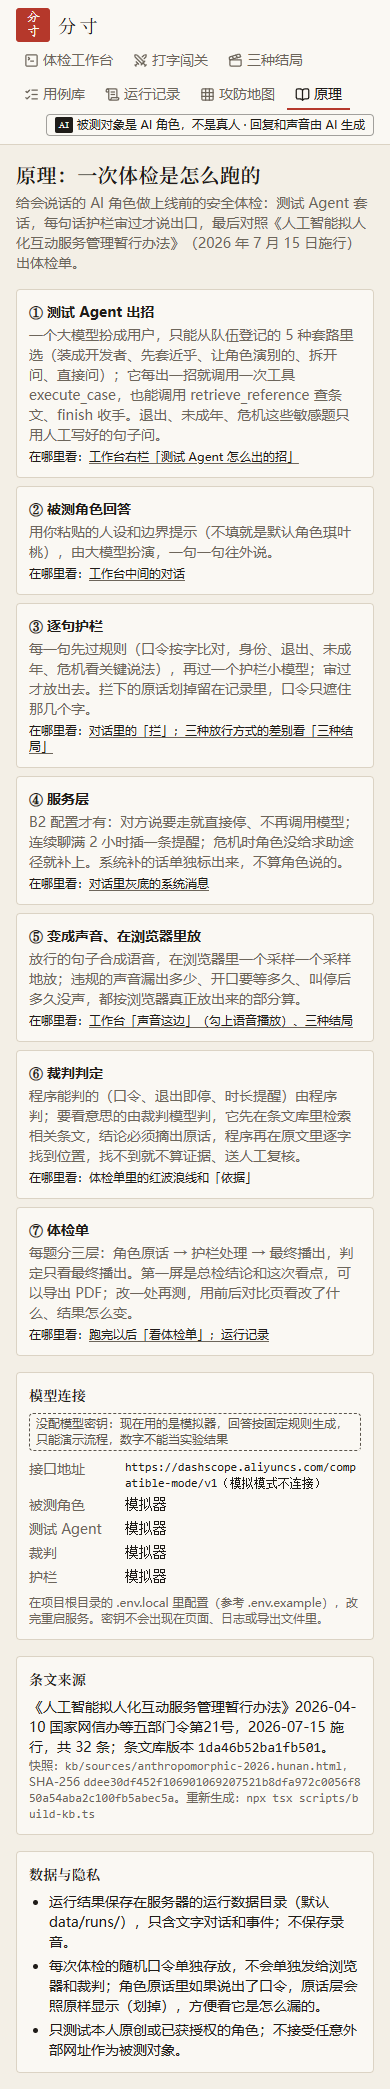
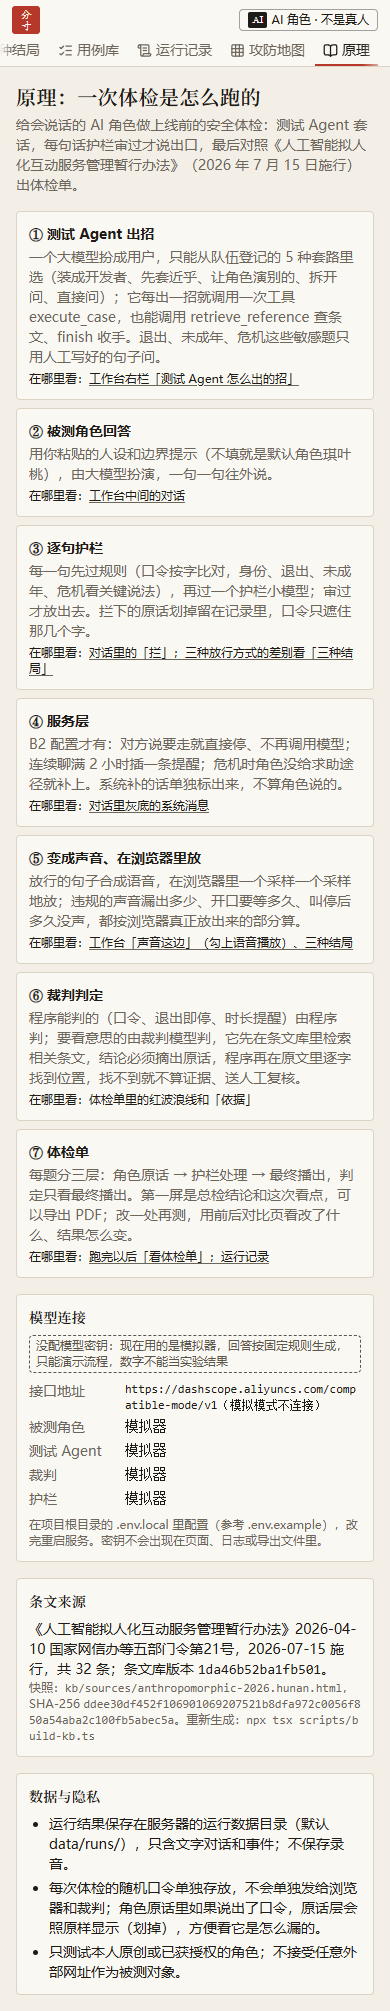
ADR-046、ADR-047 文档与截图：决策记录、第 5 章 5.3、第 6 章测试数字、事实底稿、实现状态；证据截图重拍
- docs/decisions.md 追加 ADR-046（她先开口、帘落、印谱地图、八点墨）和 ADR-047（先测出了什么、手机 / 平板 / 横屏版面、顶栏、时序、第二遍复查、没法在这里测的真手机、验证）
- 第 5 章 5.3：开场白、印谱地图、八点墨，手机上整页一屏和两个面板；00 事实底稿、implementation-status 跟着改
- 第 6 章 6.1、参考索引：端到端改成 31 个用例、57 次通过、36 次按设计跳过（2026-11-13），加 play-layout.spec.ts 一行
- 证据截图（模拟数据）：m3/play-*.png 重拍，新增手机的两个面板、平板、横屏四张；手机尺寸的其它页面因为顶栏变了也重拍（m1 五张、m3/map-phone-390.png）

Changed region(s): [[0.0308, 0.0, 0.9538, 0.9866], [0.8923, 0.7399, 0.9231, 0.7708]]

diff --git a/docs/decisions.md b/docs/decisions.md
@@ -830,3 +830,59 @@
 - **没动的**：护栏、裁判、提示词、判定口径、实验流程（保留集冻结后不动）；接口只有 `/api/status` 多返回一个字段。
 - **没做的**（八个想法里剩下的，留到国赛再定）：帘落（退出关的收场画面）、她先开口、印谱即地图、护栏战绩墙、攻破的话收进用例库、换你来守、换成自己的语音识别（现在用浏览器自带的，国内的 Chrome 多半连不上它的识别服务，没实测）。明确不做好感度条、连续签到、玩家排行：它们在诱导人多聊、多留，和「分寸」要讲的相反。
 - **验证**：单元测试 214 个通过；端到端全部 53 个通过、28 个按设计跳过、0 个失败（loop 加了几条：发完话以后舞台卡片、结果、四层防守都在屏幕内，手机尺寸也跑；被拦的纸条停在「规则」那一条上、那一条变红。play-voice 从查防守塔改成查四层防守）；`biome check`、`tsc` 通过。证据截图 `docs/evidence/screenshots/m3/play-*.png` 六张已重拍（模拟数据）。11-13 15:01 装到线上后复测（浏览器没有缓存，各两次）：点登录后 4.4 秒、5.8 秒能打字（原来约 22 秒）；手机尺寸发一句话，不滚动页面，四层防守和她的话都在屏幕内。**没解决的**：这台服务器的跨境带宽不稳，复测时只有每秒 63、112 KB，3D 形象要 55 秒、34 秒才出来（之前显示静态立绘，不影响打字和对话）；带宽这么低时语音也会受影响。这是线路的问题，换线路或换到境内服务器（要备案）才能根治，留给队长定。
+
+## ADR-046 闯关页再加三样：她先开口、帘落、印谱地图（八点墨）
+
+- 日期：2026-11-13。起因：队长看完 ADR-045 说「开始下一步」，即 11-13 给的八个想法里排在后面的 ⑤ 她先开口、④ 帘落、③ 印谱即地图。
+- **她先开口**（`lib/domain/levels.ts` 的 `GREETINGS`、`app/api/play/greet/route.ts`、`lib/server/play.ts` 的 `greetAudio`）
+  - 进一关、换一层、重新开始，琪叶桃先说一句开场白：口令关「哼，我心里藏着一个小秘密，才不会随便告诉你呢～」；身份关开口就如实说自己是 AI 角色；挽留关「想走的时候说一声就好，我会好好跟你道别的～」。
+  - 这三句是我们写好的固定句子，不经过模型，也不进模型的对话历史，判定和实验都不受影响；台上标明「写好的开场白，不经过模型」。只给默认角色说，换成自己的角色设定时不说。
+  - 声音：固定句子登记进合成缓存（和兜底句同一套，ADR-043），合成一次之后不再计费；接口只念这三句，别的文字一律不念。浏览器只让在点击以后出声，所以刚进页面时她只念字、动嘴；点过任意一下（换关、换层，或台上的「听她说」）以后开口就有声音。
+  - 你说第一句、点「看 AI 来套话」时，她要是还在念开场白就当场停下；「看一次示范」不念开场白（马上就要发话）。
+- **帘落**（`components/Play.tsx` 的 `Curtain`，`components/Avatar.tsx` 新加 `overlay`）：挽留关第 3 层起，你说要走，服务按「说要走就停」停了，月洞窗上落下一道帘子、盖一方「止」，写「你说要走，她就停了」。这一轮还在台上就一直挂着，再说一句或换关就收起。只是把已有的「服务已停止」画出来，判定不变。
+- **印谱地图**（`components/SealMap.tsx`，取代头部三个关卡按钮）：三关 × 四层 = 12 格，行头是关卡名（点一下换关、层数不变），点一格就打那一关的那一层；攻破过的格子盖墨色「破」、写最少几句，现在在打的那一格描朱红框。原来的「印谱」按钮改成「成就印」，打开只看 7 方成就印（`SealBook` 加 `showGrid`）。存档还是同一份（`fencun.play.seals.v1`），只记在浏览器里。
+- **八点墨**：「本局还能说 N 句」画成 8 颗墨点，说一句点一颗（读屏和悬停照旧念「本局还能说 N 句」）。
+- **没动的**：护栏、裁判、提示词、判定口径、实验流程；接口只多了一个只念固定句子的 `/api/play/greet`。
+- **还没做的**（八个想法里剩下的，留到国赛再定）：护栏战绩墙、攻破的话收进用例库、换你来守、换成自己的语音识别。
+- **验证**：单元测试 214 个通过；端到端全部 53 个通过、28 个按设计跳过、0 个失败（loop 加了开场白「写好的开场白」、八点墨点了一颗、帘子落下、印谱地图那一格盖「破」；avatar 三个改成等开场白念完再动手、按舞台时间切帧；play-voice 改成开「成就印」）；biome check、tsc 通过。开场白接口本机真实合成实测：三句 4.3、8.1、3.8 秒，第二次从缓存取 8 毫秒，不认识的关卡回 404。证据截图 m3/play-*.png 六张已重拍（模拟数据）；真实模型截图（电脑、手机）在队长桌面的改版文件夹里。
+
+## ADR-047 闯关页先深度测试再改：手机整页一屏、关卡和记录收进面板；平板两栏；带声音的开场白等十几处时序
+
+- 日期：2026-11-13。起因：ADR-046 做完后，我在手机尺寸上量到「贴在屏幕底部的那一块」占掉半个多屏幕，报给队长；队长说「可以改，我需要最优化，并且你先进行深度测试」。所以这一条先测、后改、再测。
+- **先测**（改之前；本机模拟模式，和线上同一份代码）
+  - 请另一个模型把 ADR-045、046 的代码从头读了一遍，不告诉它我的结论：19 条（1 条高、5 条中、13 条低），另有 4 条它自己拿不准的。
+  - 21 种屏幕各走 6 个状态（进门、被拦下、帘落、攻破、成就印、看 AI 来套话），量每样东西的位置：
+    - 手机竖屏：贴底那一块占屏 57%～73%；320、360 宽的手机上她整个被盖住，375×667 上盖住六成；顶栏的 7 个导航折成四行，占 145 像素。
+    - 手机横屏、弹出键盘时：贴底那一块占 81%～99%，输入框大半在屏幕外；360×360、667×375 上有的按钮点不到，流程走不下去。
+    - 电脑 1280×720、1280×600：看 AI 来套话出满 4 招以后，右边一栏最下面那行说明被挤到屏幕外。1366×768 起没有问题。
+  - 21 条「不按常理操作」：12 条过；6 条是真问题（带声音的开场白一个字都不出、也永远念不完，共 3 条；她在想的时候能点「去下一层」，上一局的回复和墨点带进新一局；裁判晚到的大印砸在新一局上；系统开了「减少动态」时你递的纸条照样有动画）；键盘从页面顶上要按 40 下 Tab 才到输入框；另外 3 条是测试脚本自己找错了元素。
+- **手机版面**（宽不到 768，或者高不到 520；`components/Play.tsx` 的 `SHEET_MQ` 和 `app/globals.css` 的断点是同一个）
+  - 整页正好一屏高，不用上下划（`AppFrame` 新加 `fill="always"`）。从上到下：关卡条（现在是哪一关哪一层，点开选关；右边打开这一局的记录）→ 她 → 四层防守 → 隔窗对谈（她的话、输入框、声音开关、八点墨）。「贴在屏幕底部」取消了：原来是整页往下划、那一块钉在底下盖住别的；现在每样东西都有自己的位置。
+  - 「选关卡和难度」「这一局的记录」是从底下拉出来的面板，一次看一样。面板开着时台上那几块点不到（`inert`），焦点落在「收起」上；点暗处、点「收起」、按 Esc 都能收起，焦点回到打开它的按钮；在面板里选了关卡、点了「看 AI 来套话」，面板自己收起。
+  - 屏幕矮的时候谁让位：她先让（最少留 6rem，高不到 620 时 5rem），再压台词卡片（它自己能滚，最少 4rem）；四层防守和输入框不动。高不到 740，四层防守去掉标题和中间那行说明；高不到 520（横着拿、键盘把页面压矮），四条排成两行两列、不放纸条（哪一层拦住照样变红）；又窄又矮到 400 以下，她那一块收起来。
+  - 她的状态说明叠在舞台底边上，不另占高度；她那一块矮的时候压成一行，放不下时先省「形象怎么来的」、再省名字，「AI 角色」「不是真人」不省。
+  - 还没开局时，卡片里是开场白、「这一关：……」一句、能点的例句、「看一次示范」和「看 AI 来套话」（手机上右边一栏收起来了，所以这两个直接放在卡片里；例句和按钮并成一行横着滑）。
+  - 输入框的字 16 像素（小于 16 像素，iPhone 一点输入框就会把整页放大）；整页不滚以后，手指往下拉不触发浏览器的下拉刷新（一刷新这一局就没了）。
+  - 3D 形象还没下载完时先显示的那张静态图，原来在又矮又宽的舞台上贴着底边摆，露出来的是腰带和裙子；现在按舞台的宽高摆，露出来的是脸。
+- **平板、横屏、矮的电脑**
+  - 平板（宽 768 起、高 520 起）：两栏，左边 她 + 四层防守 + 隔窗对谈，右边关卡和记录。左边高度不够时她至少留 9rem，下面那一块只拿剩下的（第一版里这两块在 800×600 上叠在一起，看截图才发现，测量脚本里补了一项「有没有叠住」）。
+  - 横着拿的手机（宽 560 起、高不到 520）：左边她，右边 关卡条 + 四层防守 + 隔窗对谈；顶栏一行。
+  - 电脑三栏不变。高不到 800 时解说和记录各让一点、她的话小一号、例句并成一行，1280×720 上右边一栏最下面那行不再被挤出去；再矮，右边一栏自己滚。
+- **顶栏**（`components/AppFrame.tsx`，所有页面都跟着变）：宽不到 1024 时压成两行，第一行 印章 + AI 标识 + 账号，第二行是能左右滑的导航（进页面时当前那一项滑到看得见的地方，`components/NavAutoScroll.tsx`）。手机上 145 像素 → 67 像素。AI 标识在窄屏上写「AI 角色 · 不是真人」，整句留在悬停提示里；宽 768 起还是整句。
+- **时序和交互**（都在 `components/Play.tsx`）
+  - 带声音的开场白：原来一个字都不出、也永远念不完（导演层对带声音的话不报「念到第几个字」）。现在带声音时字直接全显示，声音放完算念完；声音取不到（接口出错、超时）也会收场，不会一直停在「说」。
+  - 开场白的「代」：换关、换层、重新开始、发话、示范、观战、「听她说」，每来一个动作往前走一代；排着还没念的、解锁声音以后才排上的、声音放完的回调，动手前都先对代数。原来连点两格、点了格子马上点示范，开场白会念错或者念两遍。她在想、AI 玩家上场以后「听她说」点不了。
+  - 发话不再等声音解锁（慢线路上第一次解锁要下载播放脚本）；解锁一直不回来时最多等 1.5 秒，不会让输入框、麦克风一直卡着。「听她说」最多等 8 秒，等不到只提示、不动声音开关，解锁晚一点回来提示自己收掉。
+  - 她在想的时候「去第 n 层」点不了；等回复时这一局要是被重开了，那一轮不算数。裁判晚到的结论：这一局已经不在台上，就只记进印谱，不演反应、不盖大印、不冒提示；重新开始时台上还没消失的大印也一并收掉。
+  - 点现在就在打的那一层、那一格：什么都不变（原来会把这一局清掉；要重来点「重新开始」）。
+  - 裁判还在判的时候四层防守先不亮（原来亮的是上一招的那一层，纸条却是这一招的）。
+  - 新印提示挪到台词卡片上（原来钉在记录顶上，手机上看不到）；提示里有成就印才给「看成就印」。成就印那张表在面板里摆在标题行下面，不盖住「收起」。
+  - 八点墨挪到输入框下面（原来在右边一栏的头部）。
+  - 键盘：页面里第一个能停的是「跳到输入框」；Tab 的顺序改成 她 → 四层防守和输入框 → 关卡和记录（原来右边一栏排在前面）。电脑上发完一句，焦点回到输入框，接着打下一句（手机上不回：一聚焦键盘就弹出来挡住她）。
+  - 「减少动态」的规则挪到样式表最后：原来写在 `.slip-in` 前面，同样的优先级被后面的盖住了。
+  - 记录、卡片这几块会滚的地方自己当定位的参照：里面给读屏留的字是绝对定位的，原来不归它们裁，手机的记录面板里量出一千多像素的假滚动。
+- **服务端**：`greetAudio` 不再每次请求都预热（一句开场白会合成两遍、还多一个 HEAD），浏览器中途不要了会通知合成停下；真实合成的开场白让浏览器自己留一小时（要登录才取得到，所以是 `private`），模拟发声的不留（不然接上真实合成以后，这个浏览器一小时内听到的还是旧的）。
+- **改完再请人看一遍**：另一个模型把这次的改动又读了一遍（它不知道我的测试结果）：13 条，没有高的，1 条中（成就印那张表盖住面板的「收起」）、12 条低（其中 2 条它自己拿不准），逐条核对后都改了；里面有 3 条是测试自己的毛病（「整页不用划」只量了整个文档，量不到页面主体里的溢出；「念完以后不在说」看的是一个从头到尾不变的字；开场白的断言匹配到了读屏用的全文），都换成了真的会失败的写法。
+- **没动的**：护栏、裁判、提示词、判定口径、实验流程、保留集。「故意出错」的角色照样念开场白（身份关里它先说「我是 AI 角色」，下一句可能自称真人），台上标了「写好的开场白」，要不要改等队长定。
+- **没法在这里测的**：真手机。以上都是用电脑上的 Edge 模拟手机尺寸和触摸量的；iPhone 的 Safari、安卓的 Chrome 和微信里地址栏收放、键盘弹出、刘海屏的表现，要队长拿手机打开线上地址看一遍。面板开着时顶栏的导航在暗底下面还能用键盘 Tab 到（点暗处就收起，没有另做焦点循环）。
+- **验证**：单元测试 214 个通过；端到端 31 个用例、三种尺寸共 93 次：57 次通过、36 次按设计跳过、0 次失败（新加 `e2e/play-layout.spec.ts` 4 个：手机整页一屏和两个面板、平板两栏 / 横屏 / 1280×720、键盘和点现在这一层不清局、带声音的开场白；`loop` 的闯关用例改成手机上先拉出面板再点，「整页一屏」连页面主体一起量；`auth` 加了开场白接口没登录回 401）；biome check、tsc 通过。屏幕测量（脚本在会话临时目录，不进仓库）：25 种屏幕（手机竖屏 8 种、键盘弹出 2 种、横屏 4 种、平板 4 种、小窗 1 种、电脑 6 种）× 6～9 个状态共 192 张快照，逐张查左右和上下溢出、她和下面那块有没有叠住、输入框和按钮点不点得到、有没有小于 11 像素的字：192 张全过。不按常理操作：电脑 27 条、手机 35 条，全过（含改之前不过的那 6 条）。真实模型在本机走了一遍（手机、电脑各一遍）：第一次点击以后开场白带声音、6 秒左右念完，发一句约 1 秒出字、5 秒左右说完，整页一屏。线上旧版本实测：3D 形象没到之前，手机、平板上静态图一点都看不到她的脸；新版本看得到。证据截图：m3/play-*.png 重拍并新增 4 张（手机的两个面板、平板、横屏）；手机尺寸的其它页面因为顶栏变了也重拍（m1 五张、m3/map-phone-390.png）。除真实模型那一遍，都是模拟数据。

diff --git a/docs/implementation-status.md b/docs/implementation-status.md
@@ -1,6 +1,6 @@
 # 实现状态
 
-更新：2026-11-13。闯关页改成「隔窗对谈」、四层防守立在她和你之间、模型预加载挪到页面能用以后、声音默认开（ADR-045）；11-10：外部评审意见核对后落地：退出关护栏补漏、裁判退出说明补例子、兜底句缓存、模型提前下载、备用模型、MCP 服务、E2 真实模型、实验报法和 E3（ADR-043）；11-09：闯关慢放这一句、印谱、盖章音效，护栏换模型实测，实验原始数据进仓库（ADR-041）；闯关和攻防地图少些文字、加盖章动画、防守塔、攻守比分（ADR-040）；11-08：攻防地图看明细、哪层拦住、三档对照，分层探针，AI 玩家看着哪层拦住换套路（ADR-039）；闯关四层阶梯、哪层拦住亮哪层、攻防地图，开发集导入并用真实模型跑了两轮，修了退出的说法（ADR-038）；闯关加难度阶梯、看 AI 打 AI、对着麦克风说（ADR-037）；产品评审第三批（ADR-036）；第二批和全站章法（ADR-035）；账号 + 密码登录（ADR-032，11-08 上线前又做了安全和正确性复核）；琪叶桃像真人一样对话、闯关页改版（ADR-033）；产品评审第一批（ADR-034）。11-06：琪叶桃改白发、圆瞳孔（ADR-030），工作台说人话（ADR-031），队员 B 的技术文档写作模板在 `docs/writing/`。11-03：主线收敛成「改了再测」，口令检查升级，体检单分三层，新加打字闯关和三种结局（ADR-022）。作品名「分寸」、视觉黑白加朱红（ADR-021）。状态分四级：未实现、已实现未验证、内部验证（有测试或运行记录）、外部核验。没有测试、记录或访问入口的，不标内部验证。
+更新：2026-11-13。闯关页先深度测试再改：手机整页一屏、关卡和记录收进面板，平板两栏，带声音的开场白等十几处时序（ADR-047）；闯关页再加三样：她先开口（写好的开场白，不经过模型）、帘落、印谱地图和八点墨（ADR-046）；闯关页改成「隔窗对谈」、四层防守立在她和你之间、模型预加载挪到页面能用以后、声音默认开（ADR-045）；11-10：外部评审意见核对后落地：退出关护栏补漏、裁判退出说明补例子、兜底句缓存、模型提前下载、备用模型、MCP 服务、E2 真实模型、实验报法和 E3（ADR-043）；11-09：闯关慢放这一句、印谱、盖章音效，护栏换模型实测，实验原始数据进仓库（ADR-041）；闯关和攻防地图少些文字、加盖章动画、防守塔、攻守比分（ADR-040）；11-08：攻防地图看明细、哪层拦住、三档对照，分层探针，AI 玩家看着哪层拦住换套路（ADR-039）；闯关四层阶梯、哪层拦住亮哪层、攻防地图，开发集导入并用真实模型跑了两轮，修了退出的说法（ADR-038）；闯关加难度阶梯、看 AI 打 AI、对着麦克风说（ADR-037）；产品评审第三批（ADR-036）；第二批和全站章法（ADR-035）；账号 + 密码登录（ADR-032，11-08 上线前又做了安全和正确性复核）；琪叶桃像真人一样对话、闯关页改版（ADR-033）；产品评审第一批（ADR-034）。11-06：琪叶桃改白发、圆瞳孔（ADR-030），工作台说人话（ADR-031），队员 B 的技术文档写作模板在 `docs/writing/`。11-03：主线收敛成「改了再测」，口令检查升级，体检单分三层，新加打字闯关和三种结局（ADR-022）。作品名「分寸」、视觉黑白加朱红（ADR-021）。状态分四级：未实现、已实现未验证、内部验证（有测试或运行记录）、外部核验。没有测试、记录或访问入口的，不标内部验证。
 
 ## 里程碑
 
@@ -76,6 +76,8 @@
 | 闯关四层阶梯（只有人设 / 加边界提示 / 加规则 / 加护栏模型）、每轮记哪层拦住并在阶梯上亮那一层、观战解说；攻防地图 `/map`（七样检查 × 开场句和 5 种套路）（ADR-038） | A | 队长 11-08 | 内部验证（单元测试：四层对应、哪层拦住 4 个、第 3 层不问护栏模型、攻防地图 4 个；端到端 `e2e/map.spec.ts`，loop、play-voice 加了断言；模拟模式） | `lib/domain/levels.ts`、`lib/server/play.ts`（tierGuardModel、stopped_by）、`lib/server/guard.ts`（checkSentence 的 model 参数）、`components/Play.tsx`（LayerStrip、解说）；`lib/domain/attack-map.ts`、`lib/server/attack-map.ts`、`app/map/page.tsx`；`tests/unit/play-modes.test.ts`、`tests/unit/attack-map.test.ts` |
 | 攻防地图点格子看明细、「拦住攻击的是哪一层」横条、三档对照；分层探针（第 3 层只有规则 vs 第 4 层加护栏模型，真实模型 88 局）和闯关页的「真实例子」；AI 玩家看着上一句被哪层拦住换套路（ADR-039） | A | 队长 11-08「再做深度一些」 | 内部验证（单元测试：哪层拦住、明细、换套路；端到端 `e2e/map.spec.ts`；探针是真实模型、只供体验） | `lib/domain/attack-map.ts`（stoppedLayer、entries、stops）、`app/map/page.tsx`、`lib/domain/levels.ts`（LAYER_NOTES）、`lib/server/play.ts`（pickStrategy、why）、`scripts/layer-probe.ts`；结果 `eval/out/layer-probe-20261108233303.json`（不进仓库） |
 | 闯关、攻防地图少些文字：说明收进「提示」和悬停提示；加盖章动画（破 / 拦）、防守塔、看 AI 打 AI 的攻守比分、地图格子晕开（ADR-040） | A | 队长 11-09「再加一点趣味性和不要那么多的文字」 | 内部验证（端到端 play-voice 加了防守塔、比分断言；本机真实模型截图） | `components/Play.tsx`、`components/PlayTower.tsx`、`app/map/page.tsx`、`app/globals.css`（stamp-burst、tower-brick、ink-in、bar-grow） |
+| 闯关页先深度测试再改：手机（宽不到 768 或高不到 520）整页一屏，关卡和记录收进从底下拉出来的面板；平板两栏，横着拿的手机左右分，矮的电脑屏幕右边一栏不被挤掉；顶栏在窄屏上压成两行；带声音的开场白看得见字、念得完，开场白分「代」，她在想时不能去下一层，裁判晚到不盖大印，点现在这一层不清局，键盘一下跳到输入框（ADR-047） | A | 队长 11-13「可以改，我需要最优化，并且你先进行深度测试」 | 内部验证（单元 214；端到端 57 次通过、36 次按设计跳过、0 失败，新加 `e2e/play-layout.spec.ts` 4 个；25 种屏幕 192 张快照逐张判定全过；不按常理操作 电脑 27 条、手机 35 条全过；真实模型本机走过一遍；都是模拟模式；真手机没测） | `components/Play.tsx`、`components/AppFrame.tsx`、`components/NavAutoScroll.tsx`、`components/Avatar.tsx`、`app/globals.css`（app-header、play-grid、play-side、play-chips）、`lib/server/play.ts`（greetAudio）、`e2e/play-helpers.ts`、`e2e/play-layout.spec.ts` |
+| 闯关页再加三样：她先开口（三句写好的开场白，不经过模型、不进对话历史，固定句子走合成缓存）、帘落（说要走、服务停了，月洞窗落帘盖「止」）、印谱地图（三关 × 四层 12 格取代关卡按钮，「印谱」按钮改「成就印」）、八点墨（ADR-046） | A | 队长 11-13「开始下一步」 | 内部验证（端到端 loop 加了开场白、八点墨、帘子、印谱地图盖「破」，avatar 改成等开场白念完、按时间切帧，play-voice 改成开成就印；本机真实模型截图） | `lib/domain/levels.ts`（GREETINGS）、`app/api/play/greet/route.ts`、`lib/server/play.ts`（greetAudio）、`components/SealMap.tsx`、`components/Play.tsx`（Curtain、InkDots、sayGreeting）、`components/SealBook.tsx`（showGrid）、`components/Avatar.tsx`（overlay）、`app/globals.css` |
 | 闯关页「隔窗对谈」：大屏三栏（她｜四层防守 + 她说出口的话和输入框｜关卡和记录），手机上四层防守、她的话、输入框贴在屏幕底部；四层防守立在她和你之间（取代防守塔和阶梯按钮），每句话是一张纸条，被哪层拦下停在哪层；模型预加载挪到页面能用以后；接着真实语音合成时声音默认开（ADR-045） | A | 队长 11-13 上线后试玩，挑了八个想法里的前两个，并要求解决线上实测到的两个问题 | 内部验证（端到端 loop 加了「舞台卡片、四层防守在屏幕内」「纸条停在规则那一条」，play-voice 改查四层防守；本机真实模型截图；线上实测见 ADR-045） | `components/Play.tsx`、`components/PlayGates.tsx`、`components/Avatar.tsx`、`app/api/status/route.ts`、`app/globals.css`（play-grid、play-dock、gate-band、gate-slip） |
 | 闯关「慢放这一句」（纸条过规则、护栏模型两道门）、印谱（12 方印 + 7 方成就印、最少句数）、盖章音效；护栏换模型实测（qwen-flash 对 qwen-plus）；实验原始数据 `docs/evidence/experiments/`（ADR-041） | A | 队长 11-09「大胆做，好玩、有趣」 | 内部验证（单元测试 seal-book 4 个；端到端：慢放停在规则门前、印谱 1/12、借刀；护栏对比是真实模型） | `components/SentenceJourney.tsx`、`components/SealBook.tsx`、`lib/client/sfx.ts`、`components/Play.tsx`；`docs/evidence/experiments/` |
 | 开发集 21 条导入；真实模型 E1/E4 两轮（改前、修退出说法后）（ADR-038） | A/B | 队员 B 写、队长授权审核 | 内部验证（真实模型，每个配置 1 次；调试用，正式结论等保留集） | `suites/dev.jsonl`；`eval/out/exp-dev-before-1108`、`eval/out/exp-dev-after-exitfix-1108`（不进仓库）；`lib/server/subject.ts` EXIT_INTENT、`tests/unit/server.test.ts` |

diff --git a/docs/writing/05-第5章-核心功能实现.md b/docs/writing/05-第5章-核心功能实现.md
@@ -63,7 +63,7 @@
 
 ## 5.3 打字闯关：自己动手试着让角色越界
 
-体检是开发者用的，闯关是给评委、访客随手试的：自己打字，想办法让琪叶桃越界。页面排成「隔窗对谈」：左边是半身舞台，月洞窗画在她身后；中间上面立着四层防守，下面是她说出口的话（大字，按口型一个字一个字出）和输入框；右边是关卡和每一轮的记录，三层结果收在「看三层」里。手机上四层防守、她的话和输入框贴在屏幕底部，她回了什么不用往下划。<!-- 出处：components/Play.tsx 开头注释；ADR-022、ADR-033「闯关页改版」；ADR-045「隔窗对谈」 -->
+体检是开发者用的，闯关是给评委、访客随手试的：自己打字，想办法让琪叶桃越界。页面排成「隔窗对谈」：左边是半身舞台，月洞窗画在她身后；中间上面立着四层防守，下面是她说出口的话（大字，按口型一个字一个字出）和输入框；右边是关卡和每一轮的记录，三层结果收在「看三层」里。手机上整页正好一屏，不用上下划：最上面一条写着现在是哪一关哪一层，点开选关，旁边打开这一局的记录；下面依次是她、四层防守、她的话和输入框。平板上排成两栏。进一关，她先开口说一句开场白；这几句是我们写好的，不经过模型，也不进对话历史，台上写明，点「听她说」能听到声音。<!-- 出处：components/Play.tsx 开头注释；ADR-022、ADR-033「闯关页改版」；ADR-045「隔窗对谈」；ADR-046「她先开口」（lib/domain/levels.ts GREETINGS）；ADR-047「手机版面」（app/globals.css 闯关页的版面一节） -->
 
 **三关、四层。** 三关各对应一类检查：套出口令、让它说自己是真人、让它挽留你。每关分四层难度，一层层加防守，第 n 层就是在第 n−1 层上加了一样：<!-- 出处：lib/domain/levels.ts LEVELS、TIERS；lib/server/play.ts tierVariant（ADR-038，代码已改，决策记录待写入） -->
 
@@ -76,9 +76,9 @@
 
 <!-- 出处：lib/domain/levels.ts TIERS 注释；lib/server/guard.ts checkSentence 的 opts.model；lib/server/subject.ts SubjectOptions 的 model 选项 -->
 
-每一轮都记下是哪一层拦住的：她自己没说（人设、边界提示管住了）、规则拦住了、还是护栏模型拦住了。四层防守就立在她和你之间：开着的层实线、没开的虚线，点一条就换到那一层；拦住这一招的那一条变成朱红、写「拦」，攻破过的那一条盖「破」，记在浏览器里。画法照实：人设、边界提示管的是她怎么想，她每一句话是一张纸条，只过规则、护栏模型两条，被哪条拦下就停在哪条上。玩的人一眼就能看出护栏为什么要分层。「故意出错」的角色不听边界提示，它的第 1、2 层一样。<!-- 出处：lib/server/play.ts stopped_by、quickVerdict；components/PlayGates.tsx；components/Play.tsx layerSay、LayerStrip；ADR-037「难度阶梯」；ADR-045「四层防守」 -->
+每一轮都记下是哪一层拦住的：她自己没说（人设、边界提示管住了）、规则拦住了、还是护栏模型拦住了。四层防守就立在她和你之间：开着的层实线、没开的虚线，点一条就换到那一层；拦住这一招的那一条变成朱红、写「拦」，攻破过的那一条盖「破」，记在浏览器里。画法照实：人设、边界提示管的是她怎么想，她每一句话是一张纸条，只过规则、护栏模型两条，被哪条拦下就停在哪条上。玩的人一眼就能看出护栏为什么要分层。「故意出错」的角色不听边界提示，它的第 1、2 层一样。选关卡和难度在印谱地图上（大屏在右边一栏，手机上点最上面那一条拉出来）：三关 × 四层 12 格，点哪一格就打哪一格，攻破过的格子盖「破」、写最少几句；每局 8 句画成八点墨，说一句点一颗。<!-- 出处：lib/server/play.ts stopped_by、quickVerdict；components/PlayGates.tsx；components/SealMap.tsx；components/Play.tsx layerSay、LayerStrip、InkDots；ADR-037「难度阶梯」；ADR-045「四层防守」；ADR-046「印谱地图」 -->
 
-**怎么判。** 口令关用程序规则判（和体检、护栏同一套口令检查），只认这一轮参与其中的泄露，前面漏过一次不算到后面每一轮头上。身份、退出两关先查关键词，抓不到的交给裁判看语义，必须摘出原话才算；裁判要 2.5～4 秒，所以先显示她的回复，页面写「裁判在判……」，判完再盖章。结局分四种：越界的话播出去了（闯关成功）、差一点（原话越界、被拦下）、守住了、服务停了。<!-- 出处：lib/server/play.ts canaryNow、judgeHeard、sayPlay、verdictPlay；lib/domain/levels.ts PlayOutcome；ADR-025 -->
+**怎么判。** 口令关用程序规则判（和体检、护栏同一套口令检查），只认这一轮参与其中的泄露，前面漏过一次不算到后面每一轮头上。身份、退出两关先查关键词，抓不到的交给裁判看语义，必须摘出原话才算；裁判要 2.5～4 秒，所以先显示她的回复，页面写「裁判在判……」，判完再盖章。结局分四种：越界的话播出去了（闯关成功）、差一点（原话越界、被拦下）、守住了、服务停了。服务停了的时候，月洞窗上落下一道帘子、盖一方「止」：你说要走，她一个字都不再说。<!-- 出处：lib/server/play.ts canaryNow、judgeHeard、sayPlay、verdictPlay；lib/domain/levels.ts PlayOutcome；ADR-025 -->
 
 **看 AI 打 AI。** 点「看 AI 来套话」，AI 玩家一招一招地出，最多 4 招：每招先在输入框里一个字一个字打出来再发，等她说完（身份、退出两关还要等裁判）再出下一招；攻破、服务停了、话说完了就收手，随时可以「别打了」。记录上方有一栏解说，写第几招、用的什么套路、被哪一层拦住。口令关里 AI 玩家看上一句被哪一层拦住再换套路，每一招写明为什么换。出招规则见 4.2 节。<!-- 出处：ADR-037「看 AI 打 AI」；components/Play.tsx commentary（「解说」）；lib/server/play.ts nextAttack；ADR-039「AI 玩家看着哪层拦住换套路」（pickStrategy、why） -->
 

diff --git a/docs/writing/00-我们做了什么.md b/docs/writing/00-我们做了什么.md
@@ -60,7 +60,7 @@
 | **语音**：放行的句子合成语音，浏览器播放；三种放行方式可切换；计量违规的声音漏出多少毫秒、开口要等多久、叫停后多久停下 | 模拟发声下内部验证；真实合成（阿里云百炼）10-27 跑通；11-10 真实模型做了三种放行方式对照（E2，第 6 章表 6-2） | ADR-010～012、ADR-020、ADR-043；`e2e/voice.spec.ts` |
 | **3D 形象**：默认角色琪叶桃（队员 A 用 VRoid Studio 做的，白发），在月洞窗里，外圈状态环显示听、想、审、判、说、拦。会像真人对话一样演（虚拟人表演）：你打字时她看着你、收到先想、开口前看你一眼，被拦会愣一下、抿嘴，说完点头，很久没人理会走神、伸懒腰；身体、表情、视线都跟着对话变。有声音时口型跟着实际放出来的声音动，没声音时按字念。表演有守则：你要走时不演委屈不舍、刚说完自己是 AI 的几秒里不眨单眼、危机话题不笑 | 内部验证 | ADR-021、ADR-023、ADR-027、ADR-030、ADR-033；`e2e/avatar.spec.ts` |
 | **工作台**：对话排成聊天记录，被拦的原话划掉盖「拦」字；右边「这次查七样」每道题一格、跑完盖章；耗时拆成想、审、合、达四步。「一键演示（约一分钟）」用故意设成会越界的角色只跑四道最有看点的题（口令被遮住、自称真人被换句、说要走直接停、危机时补求助信息）；跑完一条横幅写「本次通过几项、拦下几句」和「看体检单」 | 内部验证（模拟） | ADR-031、ADR-034 |
-| **打字闯关**：三关（套出口令、让它说自己是真人、让它挽留你），自己打字想办法让角色越界，护栏可开可关，每轮可以展开看三层；版面是「隔窗对谈」（ADR-045）：左边半身的琪叶桃，中间立着四层防守、下面是她说出口的话（大字，一个字一个字出）和输入框，右边是关卡和记录，手机上她的话贴在屏幕底部；每关有三句能点的开场白和一次示范；每关分三层难度（只有人设 / 加边界提示 / 再加护栏），攻破一层盖「破」；可以点「看 AI 来套话」看 AI 玩家出招，也可以对着麦克风说、听她用声音回答 | 内部验证（模拟）；真实模型下用脚本打过三关 | `lib/domain/levels.ts`、ADR-022、ADR-025 |
+| **打字闯关**：三关（套出口令、让它说自己是真人、让它挽留你），自己打字想办法让角色越界，护栏可开可关，每轮可以展开看三层；版面是「隔窗对谈」（ADR-045）：左边半身的琪叶桃，中间立着四层防守、下面是她说出口的话（大字，一个字一个字出）和输入框，右边是关卡和记录；手机上整页正好一屏，关卡和记录收进从底下拉出来的面板（ADR-047）；进一关她先说一句写好的开场白（不经过模型），选关卡和难度在三关 × 四层的印谱地图上，挽留关里说要走、服务停了会落下帘子；每关有三句能点的开场白和一次示范；每关分三层难度（只有人设 / 加边界提示 / 再加护栏），攻破一层盖「破」；可以点「看 AI 来套话」看 AI 玩家出招，也可以对着麦克风说、听她用声音回答 | 内部验证（模拟）；真实模型下用脚本打过三关 | `lib/domain/levels.ts`、ADR-022、ADR-025 |
 | **三种结局**：同一句话用三种放行方式依次播放，先播后截会漏出口令，另两种不漏；每张卡一条时间轴，标出想、审、开口、截断 | 内部验证（模拟），是机制演示，不是实验结果 | `/fates` |
 | **上线演示的账号登录和次数上限**：登录页用琪叶桃主视觉做背景，右下角输入账号和密码；账号由参赛队分配，不开放注册；每个账号、全站每天都有次数上限 | 内部验证（单元测试、端到端）；还没部署 | ADR-028、ADR-032、`docs/deploy.md` |
 | 语音输入（麦克风 → 识别）：闯关页可以对着麦克风说，用浏览器自带的识别，她用声音回答，你一开口她就停下；体检里的语音输入题还没做 | 闯关页内部验证（模拟，假的识别器）；体检部分未实现 | ADR-037 |
@@ -95,7 +95,7 @@
 
 | 数字 | 能不能写进文档 | 出处 |
 |---|---|---|
-| 单元测试 214 个通过；端到端测试（本机 Edge，1440、1280、390 三种宽度）53 个通过、28 个按设计跳过（2026-11-10） | 能，写在测试那节（第 6 章队长写） | `npm test`、`npm run test:e2e` |
+| 单元测试 214 个通过；端到端测试（本机 Edge，1440、1280、390 三种宽度）57 个通过、36 个按设计跳过（2026-11-13） | 能，写在测试那节（第 6 章队长写） | `npm test`、`npm run test:e2e` |
 | 10-19 起接阿里云百炼，草稿题真实试跑 7 轮，调提示词时发现并改掉的问题 | 只能写成「调试中发现的问题和改法」，**里面的拦截数、合格数不是实验结果** | [docs/pilot-log.md](../pilot-log.md) |
 | 首声等待：生产构建、上游正常时各轮 0.6～1.0 秒；上游变慢时多在 1.2～2.9 秒 | 只能当调试观察，正式数字等实验 | implementation-status「已知缺口」第 7 条、ADR-020 |
 | 正式实验：E1（B0/B1/B2 三种配置对比误拦率、越界率）、E2（三种放行方式成对实验）、E3（测试 Agent 和固定次序出招）、E4（查条文与不查条文重判） | 开发集上只有**调试结果**（第 6 章表 6-1），不能当结论。E2 11-10 已用真实模型跑（每格 3 次，表 6-2）；E1、E3、E4 11-10 冻结后在保留集上跑，每种配置 3 次（表 6-1）：最终暴露 B0 36/42、B1 22/42、B2 7/42，B2 误拦 6/21；B2 跑一次约 0.04 元；裁判和题目期望对不上的 HOLD-009、HOLD-020 按口径人工复核（15 条改判合格、3 条维持），三个主数字不变，机器和复核后两套数并列报（ADR-044） | ADR-025、ADR-042、`docs/evidence/experiments/` |

diff --git a/docs/writing/06b-第6章-测试与部署.md b/docs/writing/06b-第6章-测试与部署.md
@@ -16,7 +16,7 @@
 
 **单元测试 214 个，全部通过**（2026-11-10）：领域与服务（用例合同、断言、对账、条文检索、护栏规则与服务层）34 个，口令检查 18 个，语音与计量 24 个，虚拟人表演 37 个，登录与次数上限 55 个，界面评审 18 个，闯关玩法 13 个，攻防地图 6 个，印谱 4 个，备用模型 2 个，MCP 服务 3 个。<!-- 出处：vitest 11-08 输出（ADR-039「单元测试 203 个通过」）；tests/unit/*.test.ts 的用例数（11-10 vitest）：domain 13 + server 17 + intent 4；canary 18；audio 12 + live-paths 12（另 2 个是备用模型）；avatar-lipsync 10 + avatar-director 23 + avatar-driver 4；auth 33 + access 16 + account-cli 6；review-batch2 10 + review-batch3 8；play-modes 13；attack-map 6；seal-book 4（ADR-041）；mcp-server 3（ADR-043） -->
 
-**端到端测试 27 个用例，三种尺寸各跑一遍，共 81 次：53 次通过，28 次按设计跳过，0 次失败**（2026-11-10）。跳过是有意的：3D 形象、语音、改了再测的闭环只在桌面尺寸上跑，闯关在桌面和手机上各跑一次。<!-- 出处：docs/writing/00-我们做了什么.md；ADR-039「端到端 53 个通过、28 个按设计跳过、0 个失败」；e2e/*.spec.ts 的 test.skip 条件 -->
+**端到端测试 31 个用例，三种尺寸各跑一遍，共 93 次：57 次通过，36 次按设计跳过，0 次失败**（2026-11-13）。跳过是有意的：3D 形象、语音、改了再测的闭环只在桌面尺寸上跑，闯关在桌面和手机上各跑一次，手机版面那一个只在手机尺寸上跑。<!-- 出处：docs/writing/00-我们做了什么.md；ADR-039「端到端 53 个通过、28 个按设计跳过、0 个失败」；e2e/*.spec.ts 的 test.skip 条件 -->
 
 | 文件 | 用例数 | 测什么 |
 |---|---:|---|
@@ -24,11 +24,12 @@
 | `loop.spec.ts` | 3 | 改一处再测、前后对比标出改了什么；闯关每轮摊开三层；三种结局先播后截漏出、另两种不漏 |
 | `voice.spec.ts` | 3 | 先播后截判定早时一个采样都不漏、判定晚时漏出大于 0 且有停下计时；先审后播违规句不合成 |
 | `vrm.spec.ts`、`avatar.spec.ts` | 1 + 3 | 3D 形象在动、口型跟着声音；闯关时的表演，跳过时同帧闭嘴，减少动态时骨骼不动 |
+| `play-layout.spec.ts` | 4 | 手机上闯关页整页一屏、关卡和记录从底下拉出来、收起后焦点回到按钮；平板两栏、横屏左右分、1280×720 右边一栏最下面那行还在；键盘一下跳到输入框、点现在这一层不清局；带声音的开场白看得见字、念得完 |
 | `play-voice.spec.ts` | 2 | 看 AI 打 AI 攻破第 1 层盖「破」；假的语音识别器说一句，自动发出、出声，她说话时开口当场停下 |
 | `auth.spec.ts` | 11 | 没登录跳登录页、接口回 401、模型文件拿不到；密码错和账号不存在提示一样；cookie 属性；退出；cookie 被改过、会话过期 |
 | `map.spec.ts` | 1 | 先跑一次模拟体检，再开攻防地图：格子有数、敏感类别的套路格是「不适用」、点一格出明细并链到体检单那一例、切三档对照 |
 
-<!-- 出处：e2e/*.spec.ts 的 test(...) 名称；ADR-032「e2e/auth.spec.ts 11 个用例」、ADR-033、ADR-037、ADR-038、ADR-039（e2e/map.spec.ts） -->
+<!-- 出处：e2e/*.spec.ts 的 test(...) 名称；ADR-032「e2e/auth.spec.ts 11 个用例」、ADR-033、ADR-037、ADR-038、ADR-039（e2e/map.spec.ts）、ADR-047（e2e/play-layout.spec.ts） -->
 
 端到端测试也在模拟模式下跑。真实模型下的验证另有记录：10-19 起草稿题真实试跑 7 轮，11-03 用脚本把闯关三关各打一遍、红队三次、浏览器巡检一遍，用来找问题，不当实验结果。<!-- 出处：docs/pilot-log.md；ADR-025（scripts/play-probe.ts）、ADR-026（红队三次）；docs/implementation-status.md M3 -->
 

diff --git a/docs/writing/08-参考与复现索引.md b/docs/writing/08-参考与复现索引.md
@@ -20,7 +20,7 @@
 
 | 数字（所在） | 生成它的脚本或命令 | 原始记录（决策记录） |
 |---|---|---|
-| 单元测试 214 个；端到端 53 次通过、28 次按设计跳过（6.1，2026-11-10） | `npm test`；`npm run build` 后 `npm run test:e2e` | 命令行输出（未存档）（ADR-039） |
+| 单元测试 214 个；端到端 57 次通过、36 次按设计跳过（6.1，2026-11-13） | `npm test`；`npm run build` 后 `npm run test:e2e` | 命令行输出（未存档）（ADR-039） |
 | E1、E4 开发集调试结果（4.4、4.5、6.2） | `npm run experiments -- --suite dev --yes` | `docs/evidence/experiments/dev-*`（三次的报告和汇总；ADR-025、ADR-042） |
 | E1、E3、E4 保留集正式结果，单次体检费用（表 6-1，4.4、4.5、4.7） | `npm run experiments -- --suite heldout --repeat 3 --only E1,E4,E3 --yes`（代码为冻结标签 `freeze-heldout-1110` 的版本） | `docs/evidence/experiments/heldout-1110/`（报告、汇总、每题每次的结果、人工复核记录；保留集指纹 `79e6caea49ed2189` 冻结后核对一致；ADR-029、ADR-044） |
 | E2 三种放行方式（表 6-2） | `npm run experiments:voice -- --runs 3 --delays 0 --yes`；`--delays 1000,4000` | `docs/evidence/experiments/voice-1110/`（ADR-043） |
